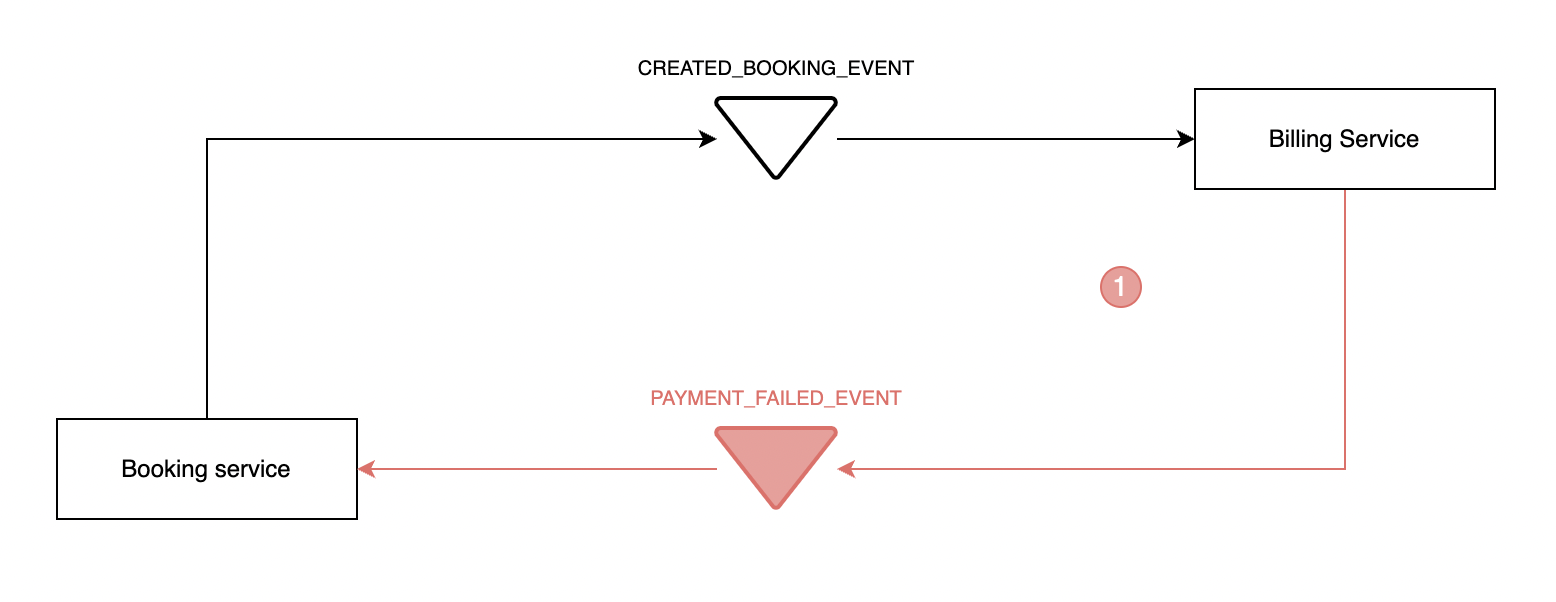
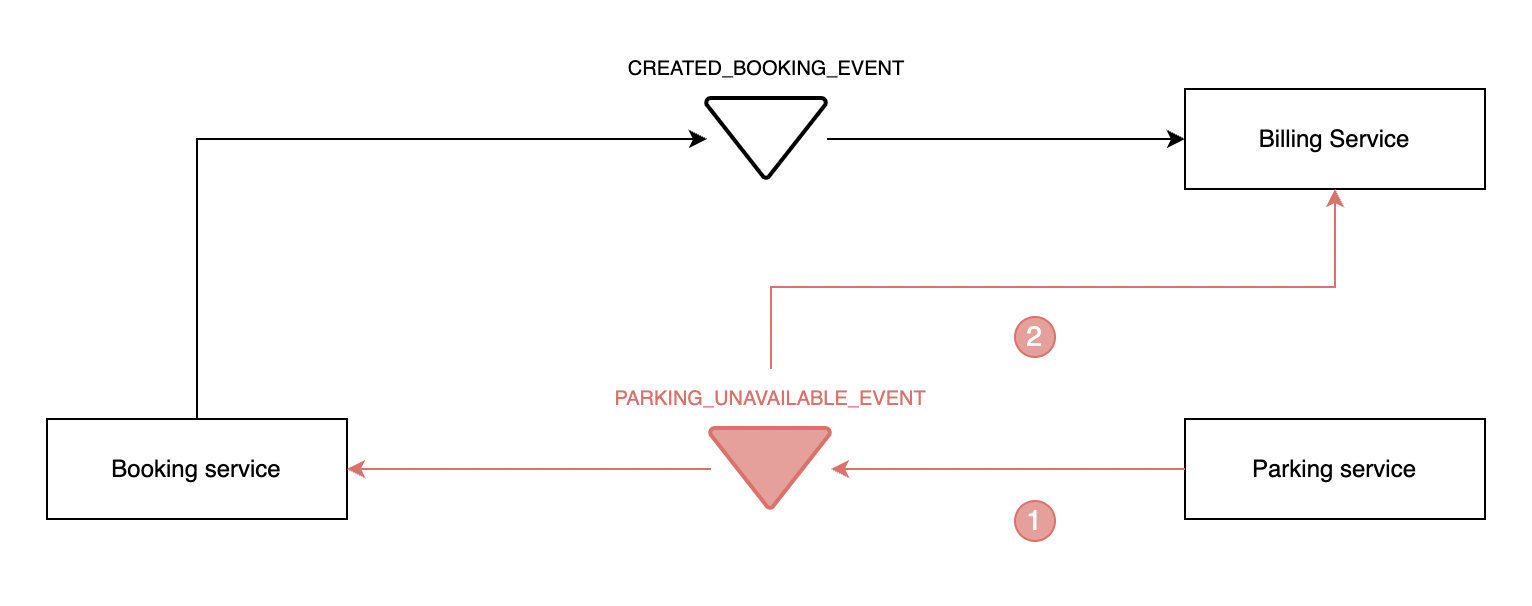
Update saga choreography workflow design

diff --git a/saga-choreograhpy-example/README.md b/saga-choreograhpy-example/README.md
@@ -24,5 +24,8 @@ There are five microservices that will work together to demonstrate this pattern
 
 ![saga-choreography-rollback-pattern](https://github.com/roelzkie15/python-microservices-patterns/blob/master/saga-choreograhpy-example/resources/saga-choreography-pattern-rb-transaction.png)
 
-1. _**Billing Service**_ publishes **PAYMENT_FAILED_EVENT**, and _**Booking Service**_ listens to it and update booking request status to _failed_.
+1. _**Parking Service**_ publishes **PARKING_UNAVAILABLE_EVENT**, and _**Booking Service**_ listens to it and updates booking request status to _failed_.
+
+1. _**Billing Service**_ listens to **PARKING_UNAVAILABLE_EVENT** updates billing status to _failed_ and refund payment to customer.
+
 > **Important:** Participating microservices should recognize transactions by using unique identifiers from a certain event to know what transaction is being processed.
